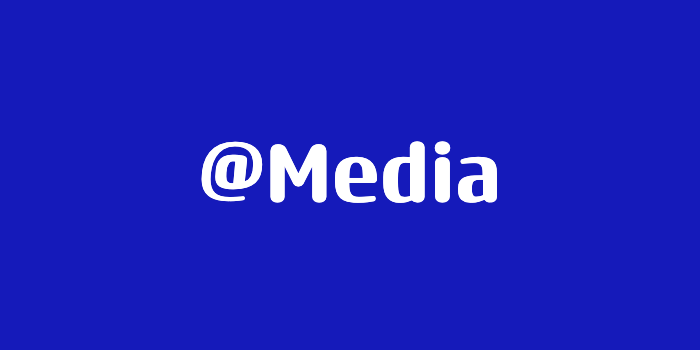
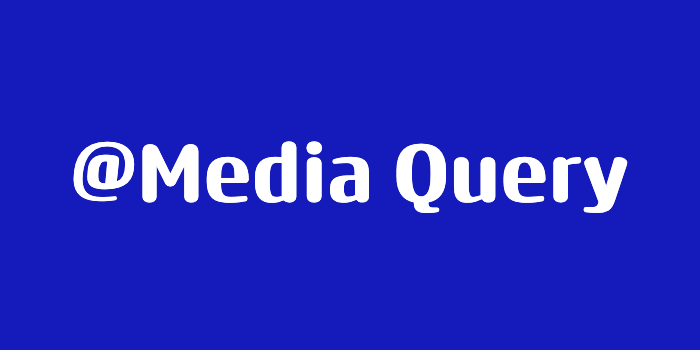
added content to README.md file

Changed region(s): [[0.09, 0.4, 0.9, 0.6286]]

diff --git a/README.md b/README.md
@@ -1,3 +1,11 @@
 <div align="center" width="100%">
   <img src='/public/@Media.png' />
 </div>
+
+<div style="text-align: center;" markdown="1" align='center'>
+
+ **An overview of how _Media Query_ works and some examples.** 
+
+  ![GitHub code size in bytes](https://img.shields.io/github/languages/code-size/leonsuaren/media)
+  https://img.shields.io/badge/React-18.2.0-yellow
+ </div>
